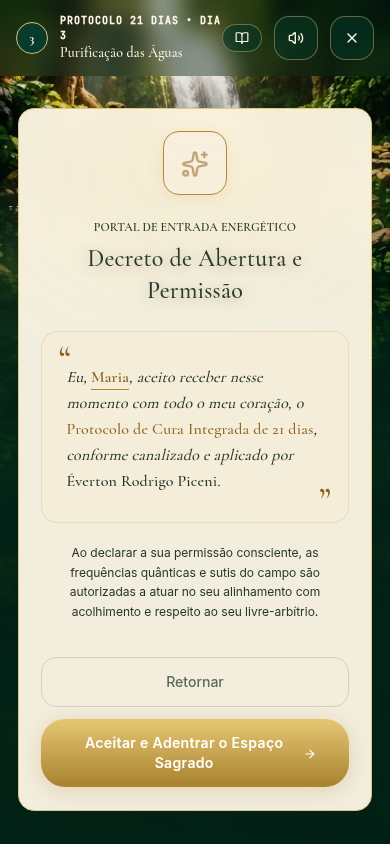
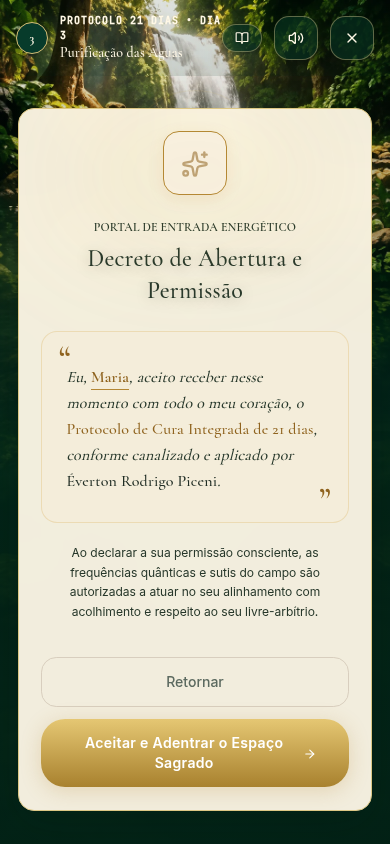
Refine Natural Sereno typography, gold finish and player spacing

diff --git a/src/natural-sereno.css b/src/natural-sereno.css
@@ -530,3 +530,56 @@
   padding: 10px 16px;
 }
 :root[data-layout="natural-sereno"]:has(.ns-app:not([data-ns-screen="home"]):not([data-ns-screen="welcome"])) #floating-whatsapp-btn span { max-width: none; }
+
+/* Approved-board finish: stronger serif hierarchy, rounded luminous gold,
+   and phone-scale spacing. Every rule remains inside Natural Sereno. */
+:root[data-layout="natural-sereno"] .ns-app :is(h1, h2, h3) { font-weight: 700; }
+:root[data-layout="natural-sereno"] .ns-greeting h1 { font-size: 36px; }
+:root[data-layout="natural-sereno"] .ns-home-message { min-height: 195px; margin-bottom: 28px; background: rgba(255, 249, 225, .96); box-shadow: inset 0 1px 3px #fffdf3, 0 4px 14px rgba(29, 52, 30, .15); }
+:root[data-layout="natural-sereno"] .ns-home-message p { font-size: 35px; font-weight: 700; }
+:root[data-layout="natural-sereno"] .ns-gold {
+  border: 2px solid #efd896;
+  border-radius: 999px;
+  background: linear-gradient(180deg, #ead394 0%, #c49b42 25%, #aa7d25 58%, #98701f 78%, #d7b55e 100%);
+  box-shadow: inset 0 2px 5px rgba(255, 247, 203, .85), inset 0 -2px 4px rgba(92, 61, 12, .4), 0 0 0 2px rgba(236, 207, 135, .17), 0 3px 12px rgba(86, 64, 16, .28);
+  text-shadow: 0 1px 1px rgba(84, 59, 11, .3);
+}
+:root[data-layout="natural-sereno"] .ns-home-scene > .ns-gold { min-height: 70px; font-size: 20px; }
+:root[data-layout="natural-sereno"] .ns-page-heading p { font-size: 15px; }
+:root[data-layout="natural-sereno"] .ns-row-copy small { font-size: 13px; color: #58604b; }
+:root[data-layout="natural-sereno"] .ns-row { background: linear-gradient(180deg, rgba(255, 252, 238, .98), rgba(250, 242, 217, .94)); box-shadow: inset 0 1px 2px #fffdf3, 0 2px 6px rgba(70, 62, 32, .07); }
+:root[data-layout="natural-sereno"] .ns-row-icon { box-shadow: inset 0 1px 4px rgba(255, 247, 198, .28), 0 1px 3px rgba(4, 40, 25, .16); }
+:root[data-layout="natural-sereno"] .ns-app[data-ns-screen="menu"] .ns-page-heading { min-height: 135px; }
+:root[data-layout="natural-sereno"] .ns-app[data-ns-screen="menu"] .ns-row { min-height: 94px; padding: 10px 12px; }
+:root[data-layout="natural-sereno"] .ns-app[data-ns-screen="menu"] .ns-row-icon { width: 66px; height: 66px; }
+:root[data-layout="natural-sereno"] .ns-app[data-ns-screen="menu"] .ns-row-icon svg { width: 30px; height: 30px; stroke-width: 1.6; }
+:root[data-layout="natural-sereno"] .ns-app[data-ns-screen="menu"] .ns-row-copy strong { font-size: 19px; }
+:root[data-layout="natural-sereno"] .ns-dock { background: #fffbed; }
+:root[data-layout="natural-sereno"] .ns-dock button { font-size: 12px; font-weight: 500; }
+:root[data-layout="natural-sereno"] .ns-dock svg { width: 29px; height: 29px; stroke-width: 1.9; }
+:root[data-layout="natural-sereno"] .ns-dock button[aria-current="page"] { font-weight: 700; }
+:root[data-layout="natural-sereno"] .ns-dock button[aria-current="page"] svg.lucide-house { fill: var(--ns-forest); color: var(--ns-forest); }
+:root[data-layout="natural-sereno"] .ns-app[data-ns-screen="profile"] .ns-page-heading { min-height: 76px; padding-top: 12px; }
+:root[data-layout="natural-sereno"] .ns-profile-identity { gap: 8px; padding-bottom: 14px; }
+:root[data-layout="natural-sereno"] .ns-profile .ns-row { min-height: 58px; margin-bottom: 5px; }
+:root[data-layout="natural-sereno"] .ns-profile .ns-row-icon { box-shadow: none; }
+:root[data-layout="natural-sereno"] .ns-profile .ns-row-copy small { font-size: 12px; }
+:root[data-layout="natural-sereno"] .ns-tools .ns-row-icon { box-shadow: none; background: #fff9e8; border-color: #d9c58f; color: #a4833e; }
+:root[data-layout="natural-sereno"] .ns-welcome-play { box-shadow: inset 0 0 0 5px rgba(232, 207, 137, .12), 0 0 0 6px rgba(230, 205, 130, .13), 0 0 22px rgba(226, 197, 105, .32); }
+:root[data-layout="natural-sereno"] .ns-app:is([data-ns-screen="library"], [data-ns-screen="tools"]) .ns-page-heading { padding-left: 18px; padding-right: 18px; }
+:root[data-layout="natural-sereno"] .ns-app:is([data-ns-screen="library"], [data-ns-screen="tools"]) .ns-page-heading h1 { font-size: 34px; }
+/* Let the waterfall stay visible behind the retained player controls. */
+:root[data-layout="natural-sereno"] #meditation-session > header { background: rgba(4, 38, 26, .12) !important; backdrop-filter: none; }
+:root[data-layout="natural-sereno"] #meditation-session > main { flex: none; min-height: 0; padding-top: 90px !important; }
+:root[data-layout="natural-sereno"] #meditation-session > footer { background: rgba(3, 35, 24, .65) !important; }
+:root[data-layout="natural-sereno"] #meditation-session[data-session-phase="playing"] { justify-content: flex-start; }
+/* The welcome board uses a larger audio ring with the waveform behind it. */
+:root[data-layout="natural-sereno"] .ns-welcome-brand { margin-bottom: 50px; }
+:root[data-layout="natural-sereno"] .ns-welcome-content > p:first-of-type { margin: 12px 0 15px; }
+:root[data-layout="natural-sereno"] .ns-welcome-audio { padding: 12px 0; }
+:root[data-layout="natural-sereno"] .ns-welcome-play { width: 160px; height: 160px; }
+:root[data-layout="natural-sereno"] .ns-welcome-play svg { width: 45px; height: 45px; }
+@media (max-height: 720px) {
+  :root[data-layout="natural-sereno"] .ns-welcome-brand { margin-bottom: 25px; }
+  :root[data-layout="natural-sereno"] .ns-welcome-play { width: 120px; height: 120px; }
+}

diff --git a/src/components/MeditationSession.tsx b/src/components/MeditationSession.tsx
@@ -3,7 +3,7 @@
  * SPDX-License-Identifier: Apache-2.0
  */
 
-import React, { useState, useEffect } from 'react';
+import React, { useState, useEffect, useLayoutEffect } from 'react';
 import { motion, AnimatePresence } from 'motion/react';
 import {
   X, Sparkles, BookOpen, Volume2, VolumeX
@@ -62,6 +62,15 @@ export default function MeditationSession({
   // Session flow phases:
   // 'portal' -> 'checkin_before' -> 'playing' -> 'checkin_after' -> 'completed'
   const [sessionPhase, setSessionPhase] = useState<'portal' | 'checkin_before' | 'playing' | 'checkin_after' | 'completed'>('portal');
+
+  // Natural Sereno can scroll on small screens. Do not carry the check-in's
+  // scroll offset into the player when its shorter presentation is mounted.
+  useLayoutEffect(() => {
+    if (document.documentElement.dataset.layout === 'natural-sereno') {
+      const session = document.getElementById('meditation-session');
+      if (session) session.scrollTop = 0;
+    }
+  }, [sessionPhase]);
 
   // Stages & Audio State
   const [currentStageIndex, setCurrentStageIndex] = useState(0);

diff --git a/design-qa.md b/design-qa.md
@@ -32,7 +32,7 @@ Referência congelada: painel aprovado `1001196520.jpg`, copiado para [reference
 
 `npm run lint`, `npm test` (5 testes) e `npm run build` aprovados. O build mantém avisos de tamanho de bundle e importação estática/dinâmica do mesmo modal.
 
-[verification.json](docs/visual-qa/natural-sereno/verification.json) registra quatorze verificações aprovadas, sem erros de console: cliques reais, busca e vazio, progresso, aceite/check-in/player/roteiro, isolamento dos temas, login, entrada persistida e ausência de overflow em 320, 390, 768 e 1440 px. Reprodução: `node scripts/verify-natural-sereno.mjs`, com Vite disponível em `http://127.0.0.1:4173` e Chromium instalado.
+[verification.json](docs/visual-qa/natural-sereno/verification.json) registra dezesseis verificações aprovadas, sem erros de console: cliques reais, busca e vazio, progresso, aceite/check-in/player/roteiro, isolamento dos temas, login, entrada persistida e ausência de overflow em 320, 390, 768 e 1440 px. Reprodução: `node scripts/verify-natural-sereno.mjs`, com Vite disponível em `http://127.0.0.1:4173` e Chromium instalado.
 
 Durante a validação foram corrigidos: índice de dia deslocado; tradução de etapa tratada como objeto em vez de texto; nomes de callbacks incompatíveis com o player; roteiro existente não exibido; círculo sem coordenada inicial; rodapé sobrepondo cliques da barra inferior. Nenhuma API, pagamento, regra de recomendação ou definição de jornada foi alterada.
 
@@ -71,3 +71,18 @@ As evidências acima foram recapturadas após os últimos assets, no app real. F
 Validação final desta produção: lint, cinco testes e build aprovados; quatorze verificações de navegador aprovadas, sem erros de console. O build conserva os avisos existentes de tamanho de bundle e importação mista. As verificações adicionais confirmam 21 imagens distintas carregadas e seis imagens da Biblioteca distintas, carregadas e visíveis acima da barra.
 
 `final result: blocked` continua sendo o estado de fidelidade integral, pelos ajustes de acabamento descritos acima. Esta produção é revisável na PR #24. Nenhuma modificação nova foi feita em pagamentos, APIs, Reintegração ou nos outros três estilos.
+
+
+## Continuação — quarta produção do Estilo 1
+
+A comparação seguinte ajusta o acabamento diretamente contra o painel: hierarquia serifada mais forte, botão dourado com borda dupla iluminada e relevo, cartão da Home de 195 px e CTA de 70 px, ícones de 66 px no Menu, textos secundários mais legíveis e navegação com símbolos maiores. Menu e Perfil foram compactados onde necessário para manter a última ação visível acima da barra. O título da Biblioteca foi ajustado para evitar que a nova tipografia deslocasse o sexto item sob a navegação.
+
+O player conserva todas as etapas e controles: o título foi elevado, o cabeçalho ficou translúcido e o espaço antes do rodapé foi reduzido. Boas-vindas recebe arte limpa reconstruída do recorte aprovado, com centro verde livre, folhagens no alto, luz dourada e pedras na base, preservando callbacks e conteúdo.
+
+A auditoria funcional inclui agora as últimas linhas do Menu e do Perfil e abertura/fechamento do contato. O estado de fidelidade integral permanece bloqueado: a fonte exata e os assets originais não estão disponíveis; há diferenças na escala da onda de boas-vindas, bordas/ornamentos e distribuição dos controles adicionais do player. A comparação registra essas diferenças sem alterar conteúdo nem excluir recursos existentes.
+
+
+A quarta produção passou em lint, nos cinco testes e no build. Dezesseis verificações Chromium passaram, sem erros de console. Além das verificações anteriores, as seis linhas do Menu e a ação Sair do Perfil cabem acima da barra em 390 × 844; o contato abre e fecha com o callback existente. A entrada no player agora também verifica `scrollTop === 0`: a apresentação rolável do check-in deixava sua posição na tela seguinte, corrigida com reposicionamento somente no Natural Sereno, sem alterar etapas, áudio ou APIs.
+
+
+A medição de estilo calculado detectou ainda o espaçamento legado de 16 px na área principal do player mobile, apesar do espaçamento de 90 px especificado pelo tema. A regra final passa a prevalecer explicitamente, restrita ao Natural Sereno, e a QA verifica os 90 px calculados. Os controles extras existentes permanecem disponíveis.
